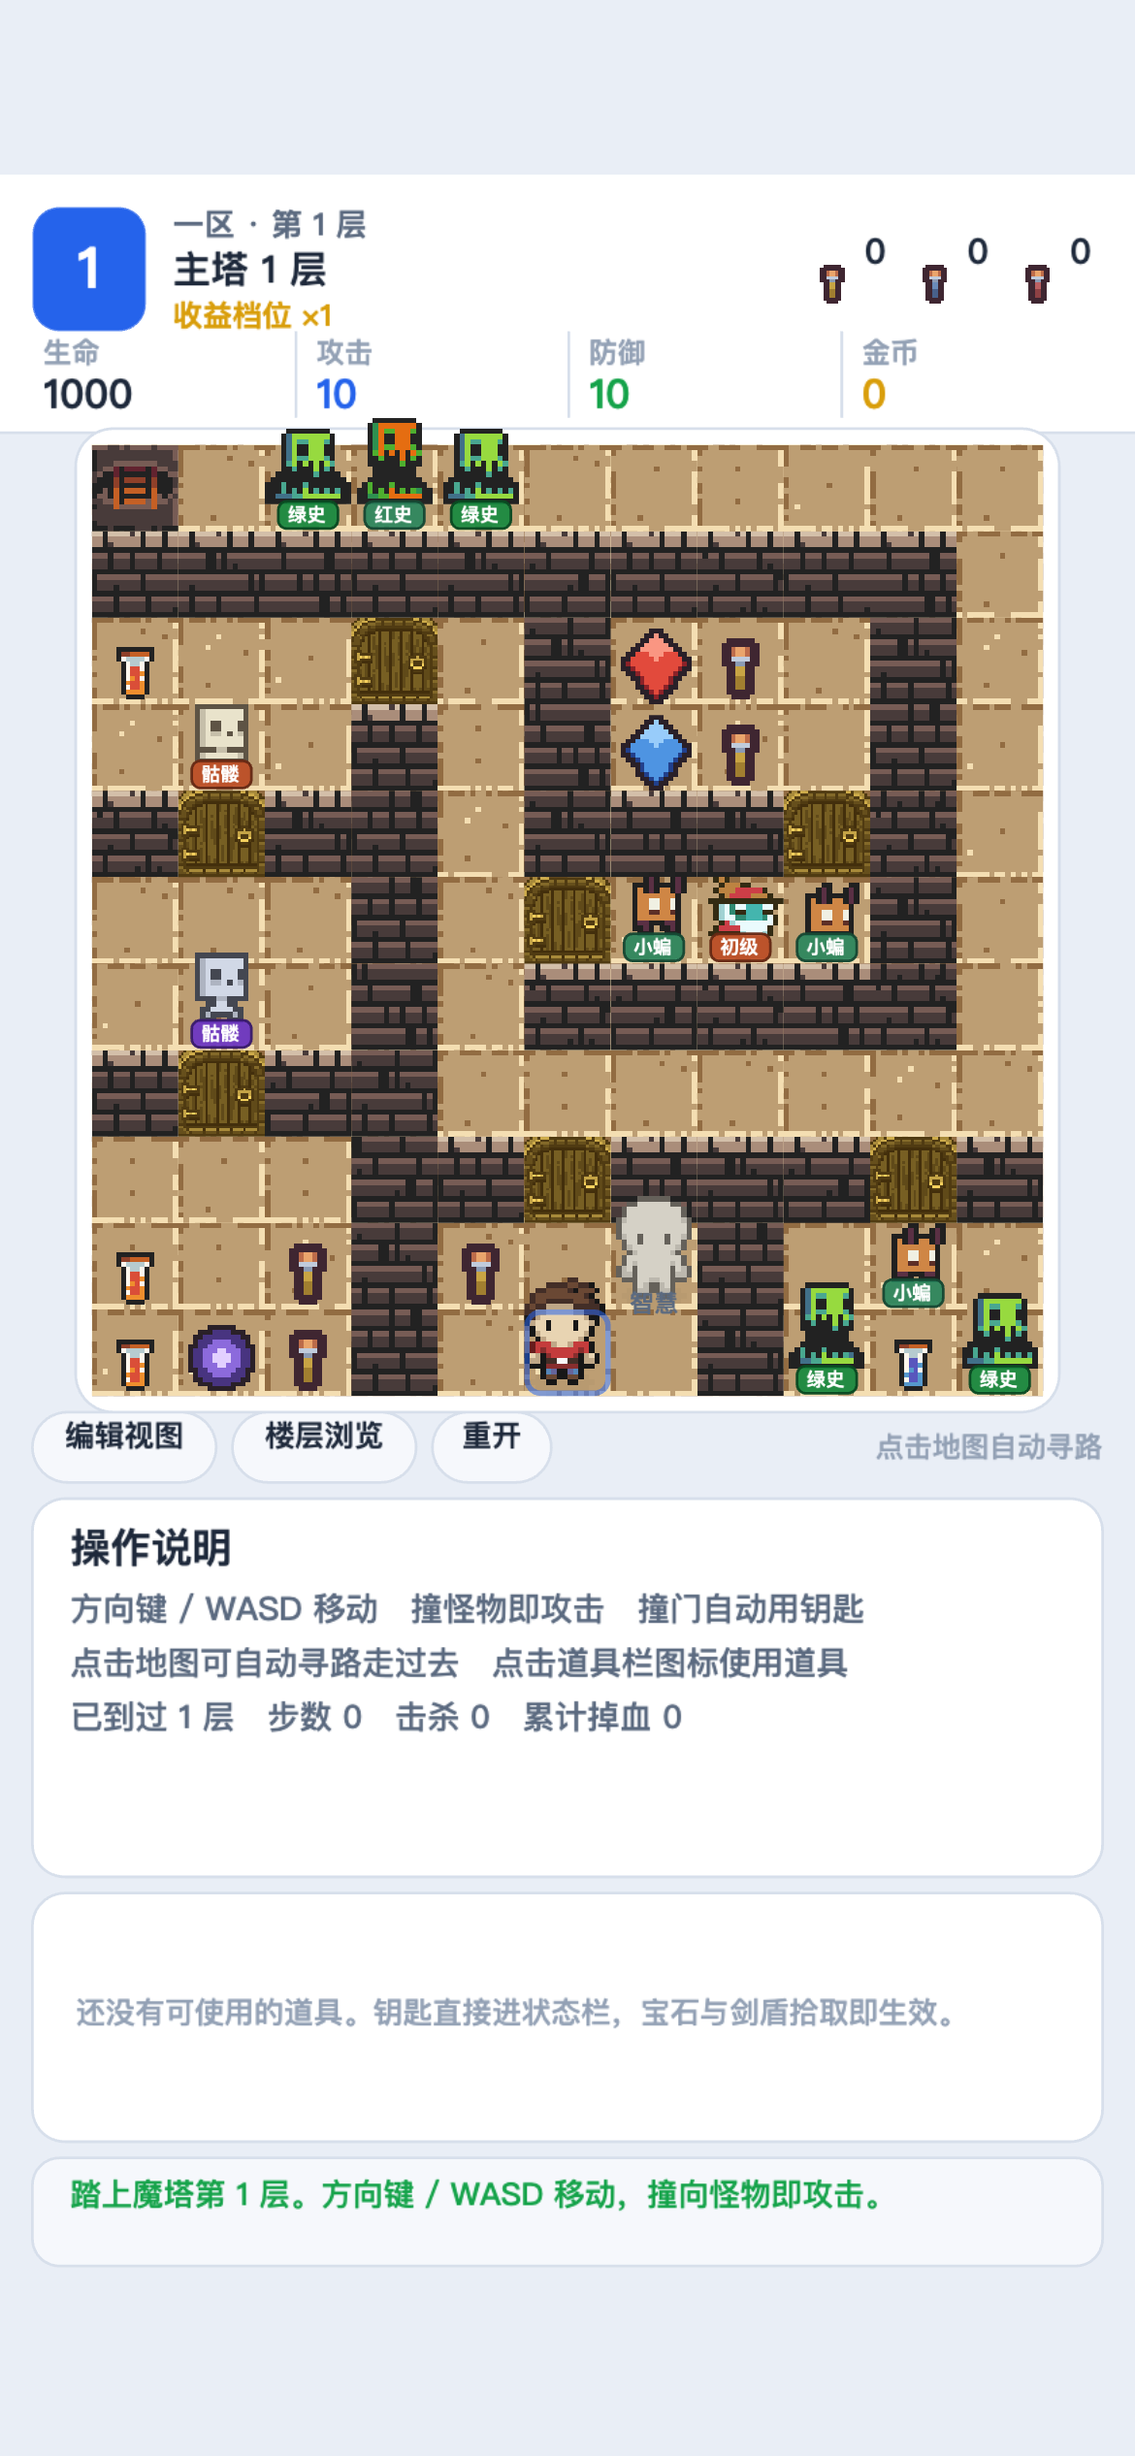
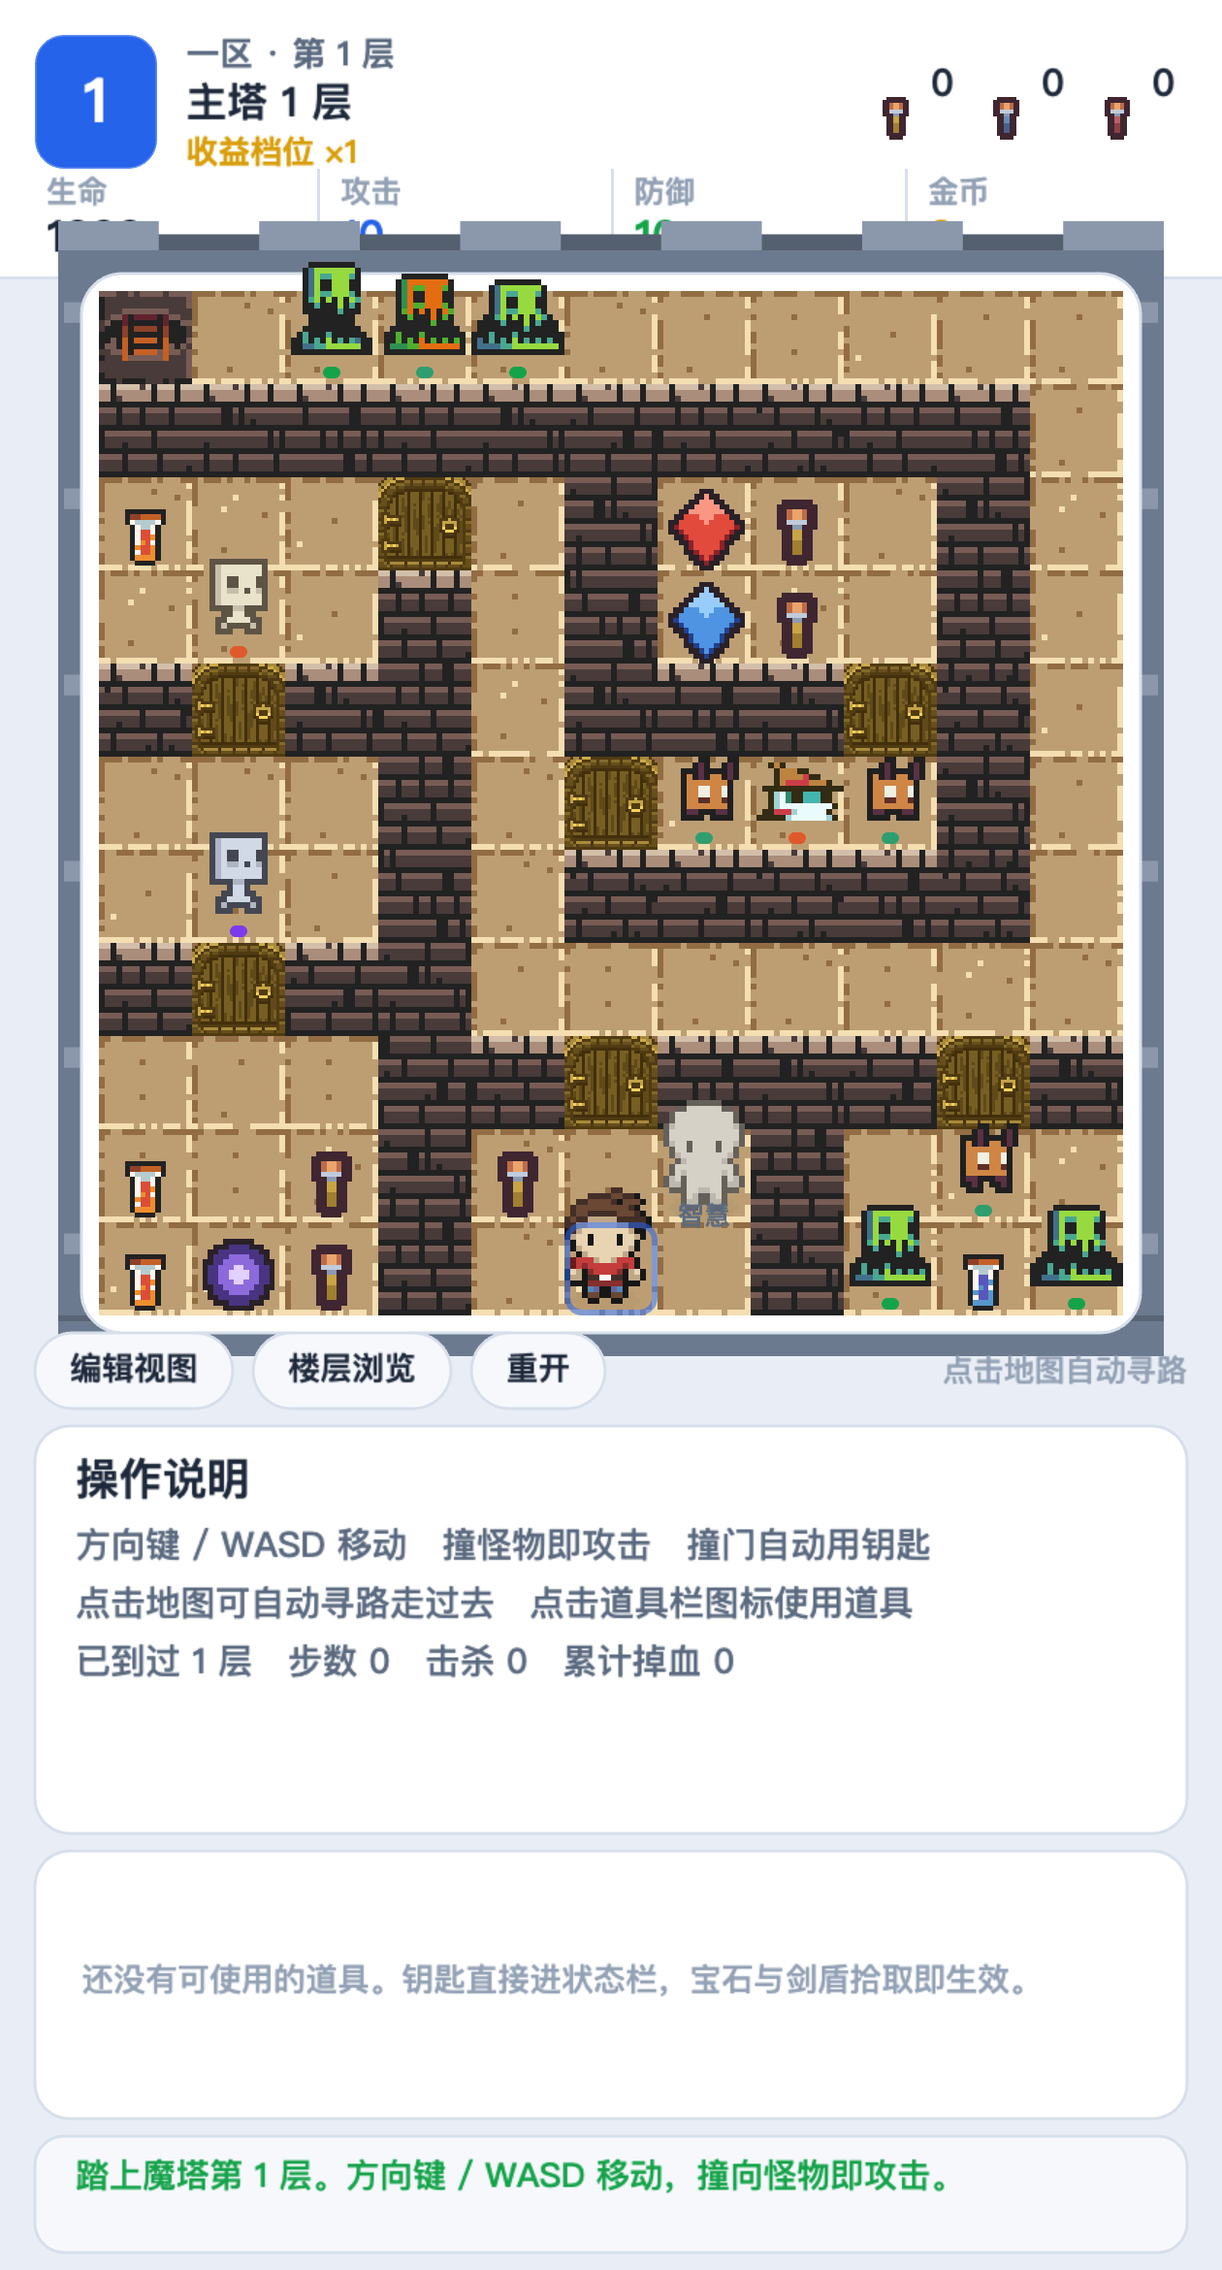
feat(render): 人物左右方向修正、高塔外檐、按钮文字、怪物去名、NPC 引导对话
本次一次处理五条体验反馈：

1. 操作左右移动时人物模型反了
   - 根因：build-assets.py 中 HERO_DIRS 假设 character.png 行带顺序为
     down/left/up/right，实际素材是 down/right/up/left。
   - 修正 HERO_DIRS = ["down","right","up","left"] 并重跑 build-assets.py。
   - NPC 用独立的 NPC_DIRS = ["down","left","up","right"]（NPC_test.png 顺序），
     避免英雄方向修正把 NPC 也带反。

2. 地图周围增加高塔外檐样式
   - Board 新增 buildParapet()：在棋盘最底层画一圈城垛（顶部凹凸）、
     左右墙柱砖纹、底部石基。
   - 外檐作为纯场景装饰，不占用 11×11 格子、不接收点击、不遮挡实体。
   - 用程序化图形而非贴图，避免四角缝隙；颜色用主题墙色系的深浅层次。

3. 按钮显示的字不全
   - Pill 宽度从「字符数 × 12 + 20」改为按 Text 实际宽度 + 24 自适应。
   - 文字垂直居中 y 从 9 改为 LAYOUT.toolbar.h / 2 - 0.5，给字体 descent 留余量。
   - Toolbar 的 mk 不再预计算宽度，而是 new Pill 后读 p.width 排下一项。

4. 怪物底部不要有名称
   - 怪物脚下的名牌改为只保留战斗评级指示灯（小圆角矩形），不写 shortName。
   - 完整名称与评级详情仍显示在右侧详情面板。
   - 指示灯用 Pixi v8 的 `label='gradeDot'` 做标记（不是 `name`，设 name 会
     触发弃用 warning），verify-visual 同步按 label 检测。

5. 和 NPC 对话应该是正常对话内容进行人物引导
   - data/npcs.json 为每个 NPC 增加 `talk` 字段，用角色化语言替代原来的
     设计说明文本（智慧老人、小偷、仙子、公主、商人、商店）。
   - src/data.ts 的 NpcDef 增加 talk / talkByFloor 类型。
   - src/game/engine.ts 优先取 talk / talkByFloor，回退 note。
   - src/render/hud.ts 的 NPC 详情面板也优先显示 talk。

附带改进：
- shot-web.cjs / verify-minigame.cjs 的控制台捕获增强：对 warning/error 提取
  完整 args，而不仅是 m.text()，便于排查 Pixi 内部警告。
- verify-visual.cjs 的 A5b 从「怪物名牌」更新为「怪物指示灯」，检测逻辑从
  Text 数量改为 label='gradeDot' 的 Graphics（生产构建类名被压缩，不能再用
  constructor.name）。

校验：npm run verify:all 全绿（sandbox 9 / visual 8 / minigame 通过 / dom 19）。

diff --git a/src/render/board.ts b/src/render/board.ts
@@ -76,6 +76,7 @@ export class Board extends Container {
   readonly span: number;
 
   private hooks: BoardHooks;
+  private parapetLayer = new Container();
   private terrainLayer = new Container();
   private entityLayer = new Container();
   private overlay = new Graphics();
@@ -110,11 +111,13 @@ export class Board extends Container {
     this.span = cellPx * 11;
     this.hooks = hooks;
 
+    this.buildParapet();
+
     const bg = new Graphics();
     bg.roundRect(-6, -6, this.span + 12, this.span + 12, 14).fill(T.panel);
     bg.roundRect(-6, -6, this.span + 12, this.span + 12, 14).stroke({ width: 1, color: T.panelBorder });
 
-    this.addChild(bg, this.terrainLayer, this.entityLayer, this.heroLayer, this.overlay);
+    this.addChild(this.parapetLayer, bg, this.terrainLayer, this.entityLayer, this.heroLayer, this.overlay);
     this.buildTerrain();
     this.buildHero();
 
@@ -141,6 +144,56 @@ export class Board extends Container {
       if (x < 0 || y < 0 || x > 10 || y > 10) return;
       this.hooks.onClick?.(x, y);
     });
+  }
+
+  /**
+   * 棋盘外沿的高塔外檐：城垛 + 墙柱 + 石基。
+   *
+   * 它只作为场景装饰存在，不参与玩法：
+   * - 不占用 11×11 棋盘格子；
+   * - 不接收点击（Board 的 hitArea 仍是 0,0,span,span）；
+   * - 不遮挡任何实体或地形，放在最底层。
+   *
+   * 用程序化图形而不是贴图：外檐是「框架」不是「格子」，贴图旋转拼接容易
+   * 在四角留下缝隙；graphics 可以保证与当前主题色完全咬合。
+   */
+  private buildParapet(): void {
+    const g = new Graphics();
+    const S = this.cellPx;
+    const span = this.span;
+    const o = 14; // 外檐厚度
+    const topH = 10; // 城垛高度
+    const baseH = 8; // 底部石基高度
+
+    // 1) 外墙主体
+    g.rect(-o, -o, span + o * 2, span + o * 2).fill(T.wallDark);
+
+    // 2) 顶部城垛：把外沿宽度均分成 11 段，与内部列对齐；偶数段凸起、奇数段凹下
+    const topW = (span + o * 2) / 11;
+    for (let i = 0; i < 11; i++) {
+      const x = -o + i * topW;
+      const merlon = i % 2 === 0;
+      const h = merlon ? topH : topH * 0.55;
+      // 凸起用墙本色（比主体稍亮），凹口用更深的阴影，形成砖石层次感
+      const color = merlon ? T.wall : shade(T.wallDark, -0.22);
+      g.rect(x, -o - h, topW, h).fill(color);
+    }
+
+    // 3) 左右墙柱砖纹
+    const brickH = S * 0.22;
+    for (let i = 0; i < 11; i++) {
+      const y = i * S + S * 0.12;
+      // 左柱
+      g.rect(-o + 2, y, o - 4, brickH).fill(i % 2 === 0 ? T.wall : T.wallDark);
+      // 右柱
+      g.rect(span + 2, y, o - 4, brickH).fill(i % 2 === 0 ? T.wall : T.wallDark);
+    }
+
+    // 4) 底部石基
+    g.rect(-o, span, span + o * 2, baseH).fill(T.wallDark);
+    g.rect(-o, span, span + o * 2, 2).fill({ color: shade(T.wallDark, -0.3), alpha: 0.6 });
+
+    this.parapetLayer.addChild(g);
   }
 
   private buildTerrain(): void {
@@ -359,29 +412,14 @@ export class Board extends Container {
       view.monsterId = id;
       view.frameIdx = -1;
 
-      // 脚下的可行性名牌先定尺寸，精灵才好站在它上面。
-      //
-      // 为什么必须让精灵站上去，而不是压着精灵画：实测所有怪物素材的**下留白都是 0**
-      // （帧是底对齐归一化的，脚正好贴格子底沿），所以任何贴在格子底部的名牌
-      // 都会切掉怪物的脚 —— 蝙蝠会变成「只剩耳朵和翅膀」。而**上留白有 0–6px**，
-      // 上移是有余量的。
-      const fs = Math.max(7, S * 0.22);
-      const plateH = fs + 3;
+      // 怪物脚下的**战斗评级指示灯**只占很小空间；精灵脚仍要踩在格内。
+      // 素材下留白为 0，所以脚的位置由指示灯高度决定，避免切脚。
+      const plateH = Math.max(7, S * 0.22) + 3;
       const plateY = S - plateH - 1;
-      const standY = plateY + 1; // 精灵的脚落在名牌上沿
+      const standY = plateY + 1;
       //
-      // ⚠ 已知代价：精灵因此**向上溢出格子**。格子 32px、普通怪物精灵正好 32px
-      // （16×16 素材 × drawScale 2），再叠一块 ~10px 的名牌，并集就有 42px。
-      // 实测（`tools/verify-visual.cjs` A5a）每一只怪都向上溢出 10px。
-      //
-      // 为什么不让精灵缩到能连名牌一起塞进 32px：那需要精灵 ≤22px，而 16px 素材
-      // 只能整数倍放大，22px 意味着 1.375 倍 —— 像素画会被插值糊掉。宁可溢出。
-      //
-      // 只有**第 0 行**会露出这个代价：棋盘上沿（LAYOUT.board.y = 100）到 HUD 下沿
-      // （LAYOUT.hud.h = 96）只有 4px 余量，面板再往上顶就会被 HUD 盖住。
-      // 实测（同一次 A5a）第 0 行怪物精灵的不透明像素从 y≈94.3 开始，
-      // 而面板上沿在 y=94 —— 也就是**刚好贴着上边框，并没有真的画到框外**。
-      // 结论：这是被量过的、有界的观感问题，不是缺陷；动手前请先看 A5a 的数字。
+      // 名字不再画在怪物下方（玩家要求底部不要有名称），完整名称与评级详情
+      // 已显示在右侧详情面板。
 
       const tex = atlas.ready ? atlas.monster(id, 'idle', 0) : null;
       if (tex) {
@@ -415,48 +453,19 @@ export class Board extends Container {
       }
       c.addChild(over);
 
-      // 名牌：**等级色底片 + 白字名字**，一个元素同时承担「能不能打」和「是什么」。
-      //
-      // 为什么不是「右上角一个指示灯 + 底下一个名牌」两个元素：
-      // 网格只有 32px，而普通怪物精灵（16×16 × drawScale 2）落屏正好 32×32 ——
-      // 一格塞不下三样东西。原来的做法是在精灵之外**再叠**一个浮在头顶的圆点，
-      // 结果是圆点压在精灵头上，还紧贴邻格的名牌，看上去弄不清属于谁；
-      // 名牌又盖住精灵的脚。三个元素互相打架。
-      //
-      // 合成一个之后占位反而更小（原来「名牌 22 + 圆点 10」的并集宽 24.5，
-      // 现在就是一块 22 宽的牌子），归属不再有歧义，精灵头顶也空了出来。
-      //
-      // 用等级色而不是家族色当底，是因为两者的信息价值不对等：
-      // 家族一眼就能从精灵身上看出来（同族靠换色做阶差），
-      // 而「这一击下去要掉多少血」是数值门玩法里真正要一眼看到的，
-      // 且它在棋盘上没有别的表达途径。家族色因此挪到兜底分支里（取不到评级时用）。
+      // 怪物脚下的**战斗评级指示灯**：只保留一个小色点，不写名字。
+      // 名字在详情面板里已经完整显示；格子只有 32px，底部再加字会切脚或压到邻格。
       const grade = this.hooks.gradeFor?.(id);
       const style = grade ? GRADE_STYLE[grade] : null;
-      const label = new Text({
-        text: shortName(mon.name),
-        style: {
-          fontFamily: '"PingFang SC","Hiragino Sans GB","Microsoft YaHei",sans-serif',
-          fontSize: fs,
-          fontWeight: '700',
-          fill: T.onDark
-        }
-      });
-      label.anchor.set(0.5);
-      const plateW = Math.min(S - 1, label.width + 8);
-      const plateX = cx - plateW / 2;
-      const plateColor = style ? style.color : shade(pal.body, -0.62);
-      const chip = new Graphics();
-      chip
-        .roundRect(plateX, plateY, plateW, plateH, plateH * 0.32)
-        .fill({ color: shade(plateColor, -0.16), alpha: 0.9 });
-      // 描一圈更暗的边。等级色饱和度不低，压在同色系地砖上会「洇」进背景；
-      // 描边把名牌和地砖分开，在浅色地面与深色墙面上都能立住。
-      chip
-        .roundRect(plateX, plateY, plateW, plateH, plateH * 0.32)
-        .stroke({ width: 1, color: shade(plateColor, -0.55), alpha: 0.95 });
-      label.x = cx;
-      label.y = plateY + plateH / 2;
-      c.addChild(chip, label);
+      const dotW = Math.max(6, Math.round(S * 0.2));
+      const dotH = Math.max(4, Math.round(S * 0.12));
+      const dotY = S - dotH - 2;
+      const dotColor = style ? style.color : shade(pal.body, -0.62);
+      const dot = new Graphics();
+      // Pixi v8 用 `label` 而不是 `name`；设 `name` 会触发弃用警告。
+      dot.label = 'gradeDot';
+      dot.roundRect(Math.round(cx - dotW / 2), dotY, dotW, dotH, dotH / 2).fill(dotColor);
+      c.addChild(dot);
     } else if (type === 'item') {
       const item = data.items[id];
       if (!item) return view;

diff --git a/src/render/hud.ts b/src/render/hud.ts
@@ -350,7 +350,9 @@ export class DetailPanel extends Container {
       const npc = data.npcs[target.id];
       this.title.text = `${npc?.name ?? target.id}　${coord}`;
       this.badgeText.text = '';
-      this.pool.set(0, npc?.note ?? '', T.ink);
+      const shownFloor = opts.shownFloor ?? state.floor;
+      const line = npc?.talkByFloor?.[String(shownFloor)] ?? npc?.talk ?? npc?.note ?? '';
+      this.pool.set(0, line, T.ink);
       const goods = npc?.goodsByFloor as Record<string, { goods?: unknown[]; gifts?: unknown[] }> | undefined;
       const rows = goods?.[String(shownFloor)];
       if (rows) {
@@ -579,14 +581,21 @@ export class Pill extends Container {
   private active: boolean;
   private w: number;
 
-  constructor(text: string, width: number, private onClick: () => void, active = false) {
+  /**
+   * @param width 固定宽度，或 `'auto'` 按文字实际宽度 + 边距自适应。
+   *              中文在不同字体下的实际宽度与「字符数 × 12」常有偏差，
+   *              用 Text 实测宽度比硬算更稳，能避免右侧被切掉。
+   */
+  constructor(text: string, width: number | 'auto', private onClick: () => void, active = false) {
     super();
-    this.w = width;
     this.active = active;
     this.t = label(text, 11, T.ink, '700');
     this.t.anchor.set(0.5);
-    this.t.x = width / 2;
-    this.t.y = 9;
+    this.w = width === 'auto' ? Math.ceil(this.t.width) + 24 : width;
+    this.t.x = this.w / 2;
+    // 按钮高度 26，文字垂直居中；Pixi Text 的锚点在几何中心，
+    // 但不同字体的 descent 会让底部笔画冒出去，所以留 1px 余量偏上。
+    this.t.y = LAYOUT.toolbar.h / 2 - 0.5;
     this.addChild(this.bg, this.t);
     this.eventMode = 'static';
     this.cursor = 'pointer';
@@ -621,11 +630,10 @@ export class Toolbar extends Container {
     const { x, y } = LAYOUT.toolbar;
     let cx = x;
     const mk = (text: string, fn: () => void, active = false): Pill => {
-      const w = text.length * 12 + 20;
-      const p = new Pill(text, w, fn, active);
+      const p = new Pill(text, 'auto', fn, active);
       p.x = cx;
       p.y = y;
-      cx += w + 6;
+      cx += p.width + 6;
       this.addChild(p);
       return p;
     };

diff --git a/src/game/engine.ts b/src/game/engine.ts
@@ -464,9 +464,19 @@ export function step(state: GameState, data: GameData, dir: Dir): StepResult {
     if (ent.type === 'npc') {
       const npc = data.npcs[ent.id];
 
+      /** 取 NPC 当前该说的台词：楼层特定 > 通用 talk > note > 兜底 */
+      const npcLine = (n: typeof npc): string => {
+        if (!n) return `${ent.id} 站在这里。`;
+        const floorLine = n.talkByFloor?.[String(floor)];
+        if (floorLine) return floorLine;
+        if (n.talk) return n.talk;
+        if (n.note) return n.note;
+        return `${n.name} 站在这里。`;
+      };
+
       // 商店（sourceId 39）：三选一买属性，走 core/shop.mjs 的递增定价
       if (npc?.sourceId === SHOP_SOURCE_ID) {
-        const msg = `${npc.name}：花钱可以立刻变强，但价格每买一次都会涨。`;
+        const msg = `${npc.name}：${npcLine(npc)}`;
         pushLog(state, msg, 'talk');
         return { kind: 'talk', moved: false, message: msg, openUi: 'shop' };
       }
@@ -475,13 +485,13 @@ export function step(state: GameState, data: GameData, dir: Dir): StepResult {
       if (npc?.sourceId === MERCHANT_SOURCE_ID) {
         const offers = merchantOffers(state, data, floor);
         if (offers.length > 0) {
-          const msg = `${npc.name}：看看货？（本层 ${offers.length} 项）`;
+          const msg = `${npc.name}：${npcLine(npc)}`;
           pushLog(state, msg, 'talk');
           return { kind: 'talk', moved: false, message: msg, openUi: 'merchant' };
         }
       }
 
-      const msg = npc?.note ? `${npc.name}：${npc.note}` : `${npc?.name ?? ent.id} 站在这里。`;
+      const msg = `${npc?.name ?? ent.id}：${npcLine(npc)}`;
       pushLog(state, msg, 'talk');
       // NPC 不可踩踏：对话后勇者留在原地
       return { kind: 'talk', moved: false, message: msg };

diff --git a/src/data.ts b/src/data.ts
@@ -67,6 +67,10 @@ export interface NpcDef {
   name: string;
   sprite?: string;
   effects?: ItemEffect[];
+  /** 游戏内点击 NPC 时说的角色化台词（优先于 note） */
+  talk?: string;
+  /** 按楼层变化的台词；key 为楼层数字字符串 */
+  talkByFloor?: Record<string, string>;
   note?: string;
   goodsByFloor?: Record<string, unknown>;
 }

diff --git a/tools/build-assets.py b/tools/build-assets.py
@@ -874,7 +874,9 @@ def gen_icon(kind: str) -> Image.Image:
 # 这张表不是规整网格：角色比 16px 格子高，且不同行带的帧距不一样。
 # 所以先按投影找出「行带」，再在每个行带里按列投影切帧，而不是硬套 16 的倍率。
 
-HERO_DIRS = ["down", "left", "up", "right"]
+HERO_DIRS = ["down", "right", "up", "left"]
+# NPC 素材的行带顺序与勇者不同：NPC_test.png 四行是 下/左/上/右
+NPC_DIRS = ["down", "left", "up", "right"]
 
 
 def slice_armm_rows(path: Path, row_specs):
@@ -1428,7 +1430,7 @@ def main() -> int:
             push_actor(f"hero.attack.{d}.{fi}", im, {"group": "hero", "anim": "attack", "dir": d, "frame": fi})
 
     for npc_id, (dk, lt) in NPC_STYLE.items():
-        for di, d in enumerate(HERO_DIRS):
+        for di, d in enumerate(NPC_DIRS):
             for fi, fr in enumerate(npc_frames[di]):
                 im = bottom_center(ramp(fr, dk, lt), 16, 26)
                 push_actor(f"npc.{npc_id}.{d}.{fi}", im, {"group": "npc", "npc": npc_id, "dir": d, "frame": fi})
